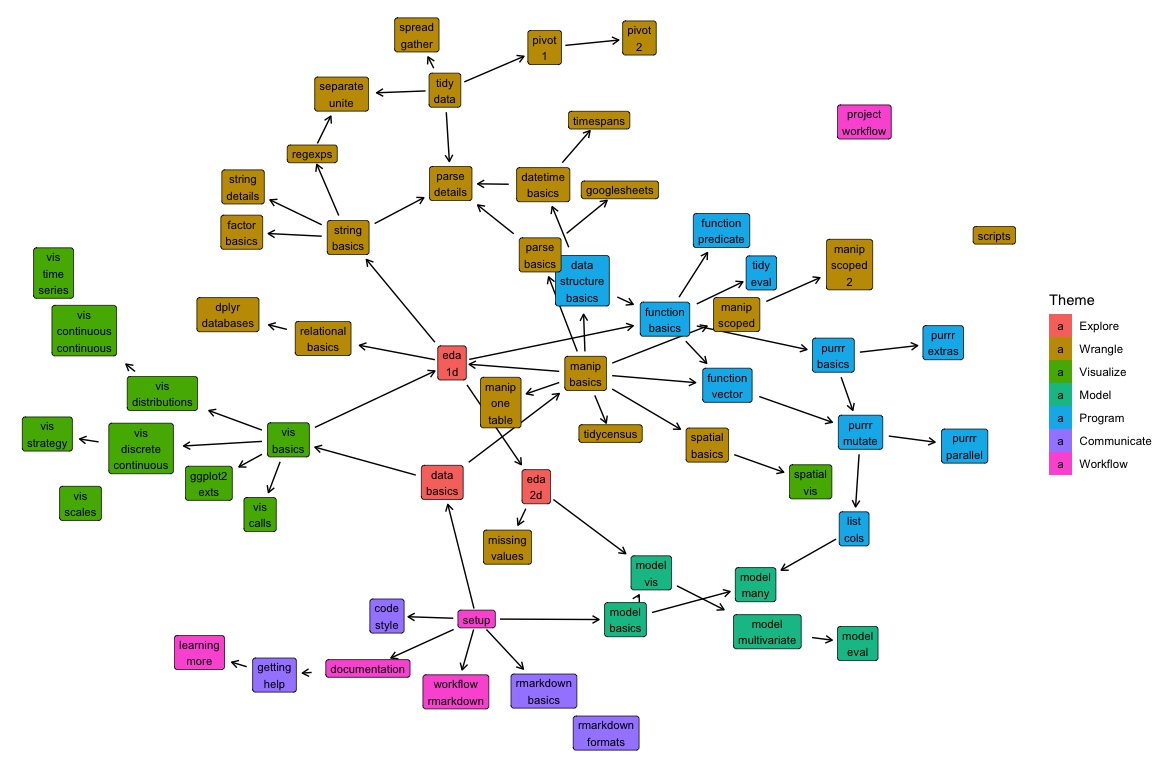
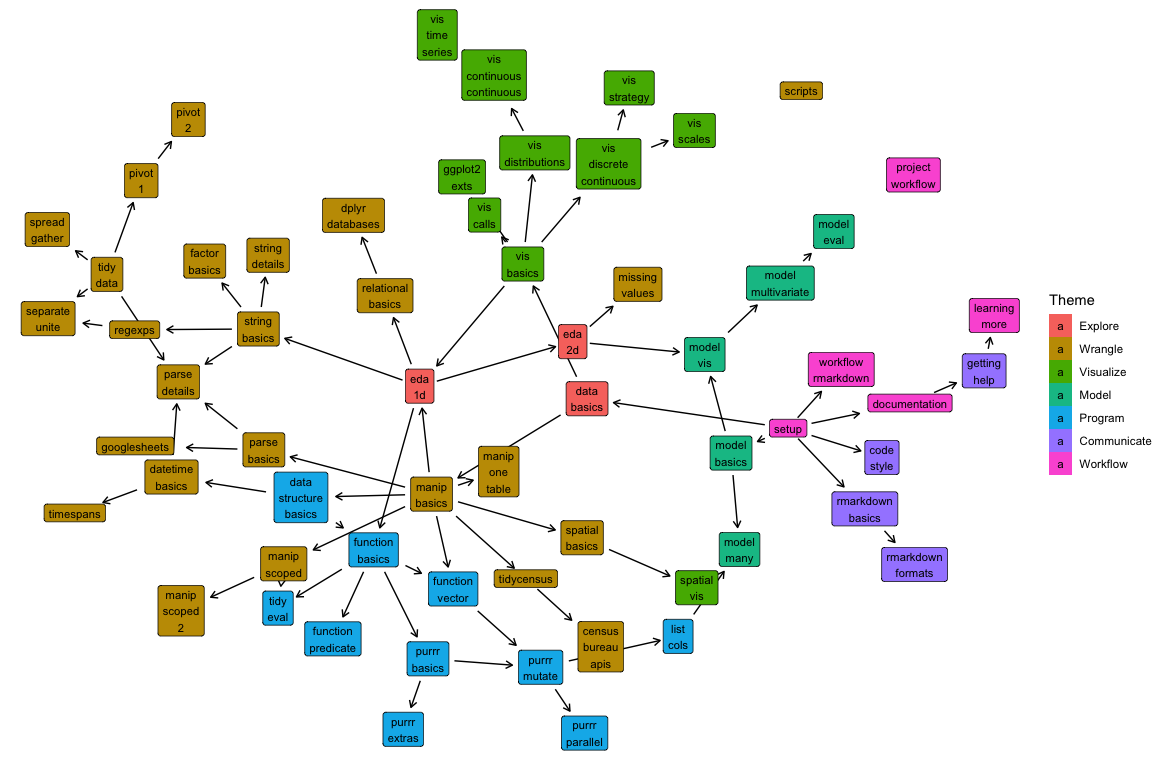
add census api unit; update books

diff --git a/docs/census-bureau-apis.md b/docs/census-bureau-apis.md
@@ -1,0 +1,22 @@
+---
+title: Census Bureau APIs
+---
+
+<!-- Generated automatically from census-bureau-apis.yml. Do not edit by hand -->
+
+# Census Bureau APIs <small class='wrangle'>[wrangle]</small>
+<small>(Builds on: [tidycensus](tidycensus.md))</small>
+
+Previously, you learned how to use the tidycensus package to access ACS and
+decennial census data. To access yearly population data between decennial census
+years, however, you'll need to work directly with the Census Bureau's
+Population Estimates APIs. In this unit, we'll cover accessing data directly 
+from APIs, and then discuss the Population Estimates APIs in more detail.
+
+## Readings
+
+  * [API basics](https://dcl-wrangle.stanford.edu/api-basics.html) [wrangle-11]
+
+  * [Population estimates](https://dcl-wrangle.stanford.edu/census.html#population-estimates-1) [wrangle-12.3]
+
+
